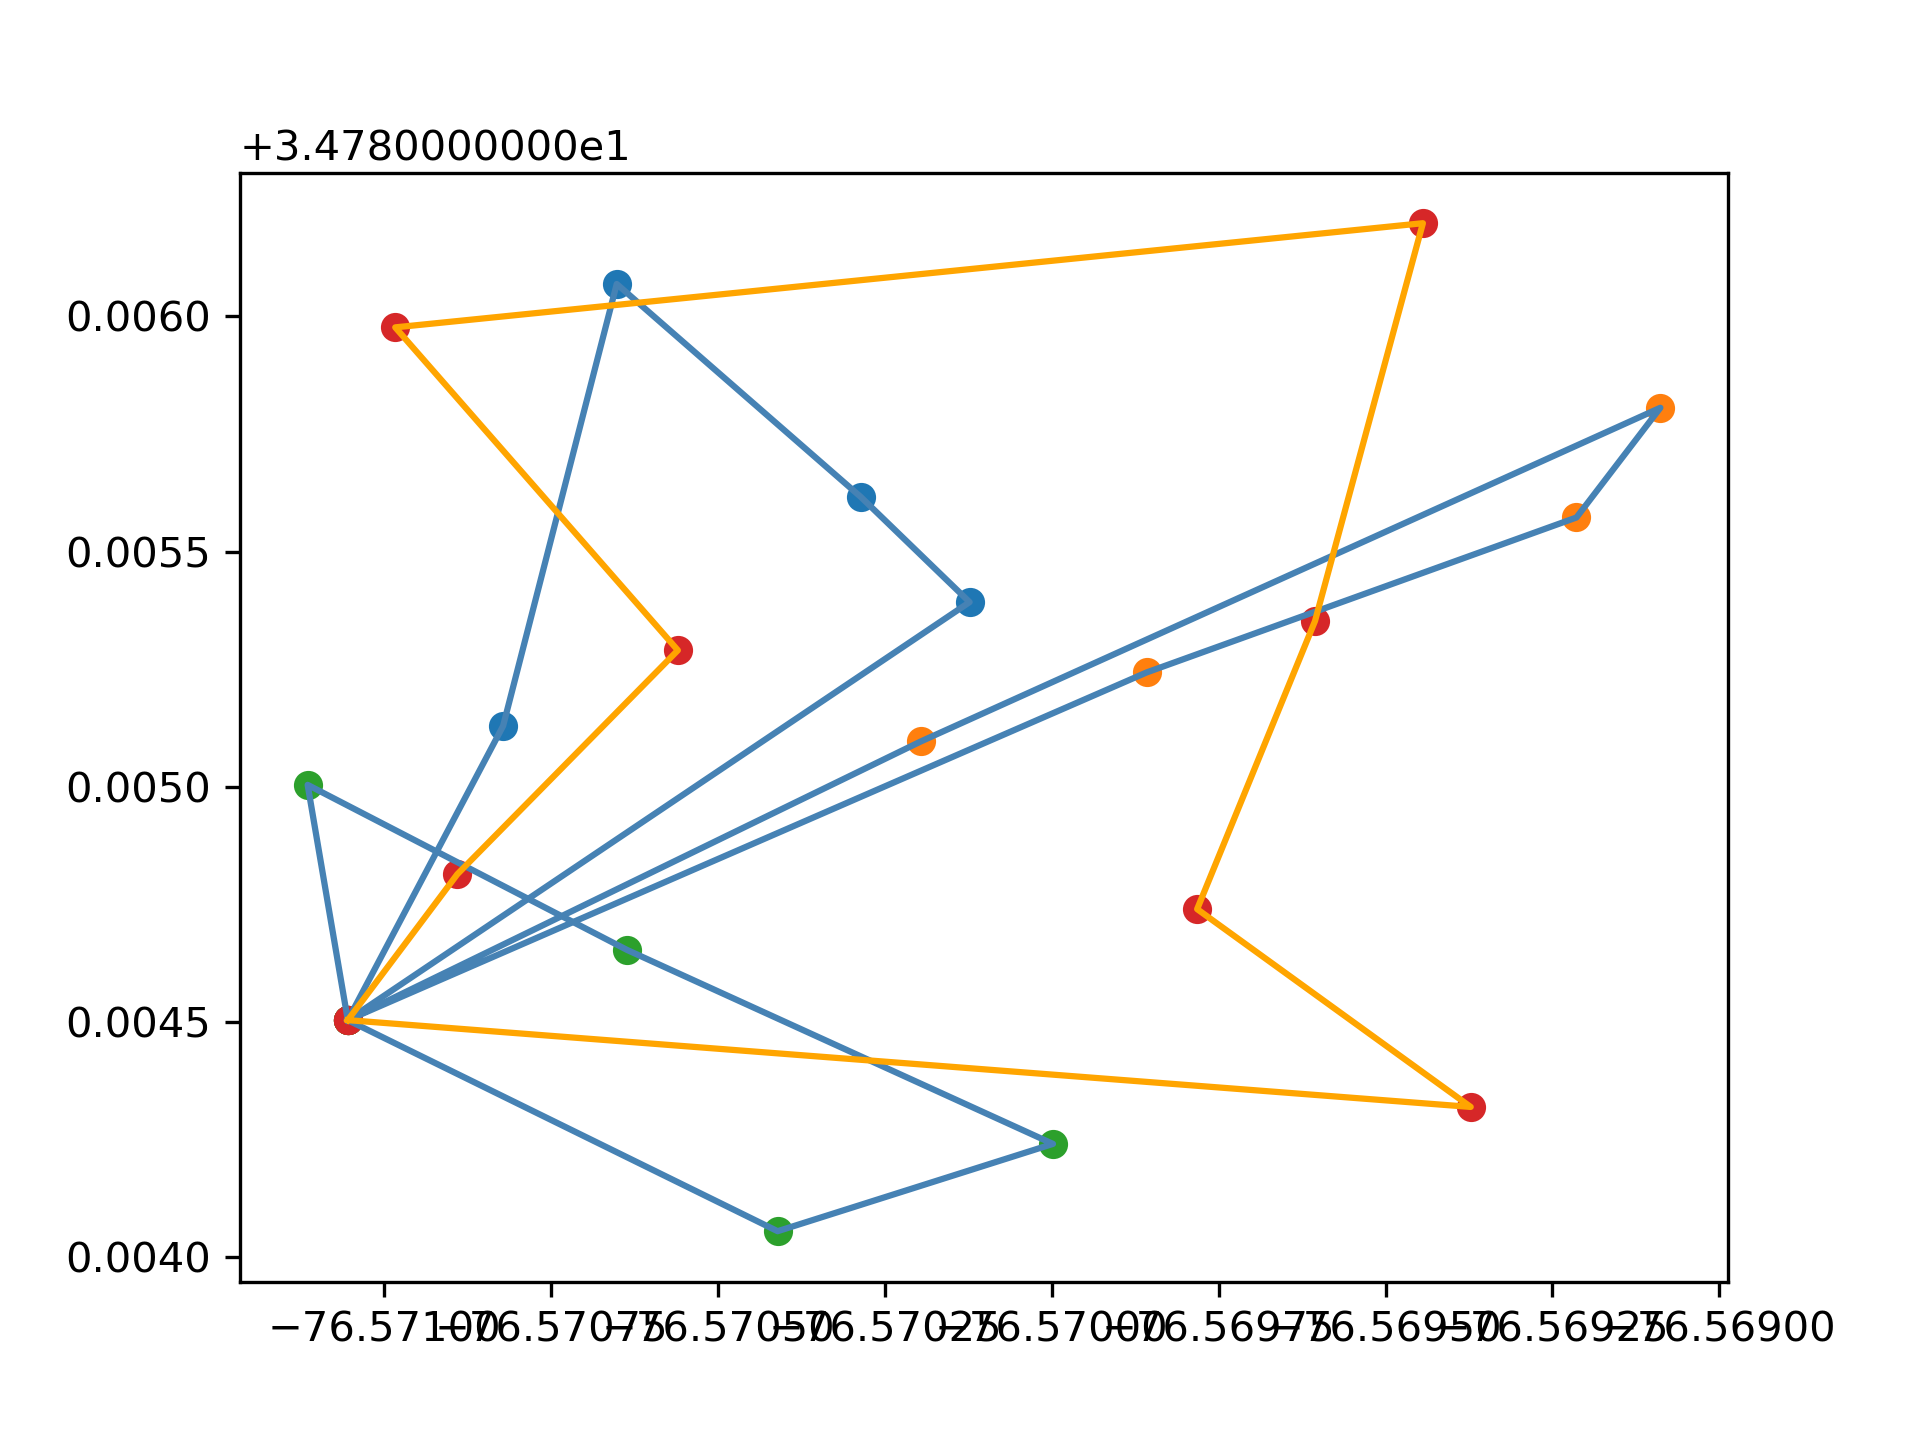
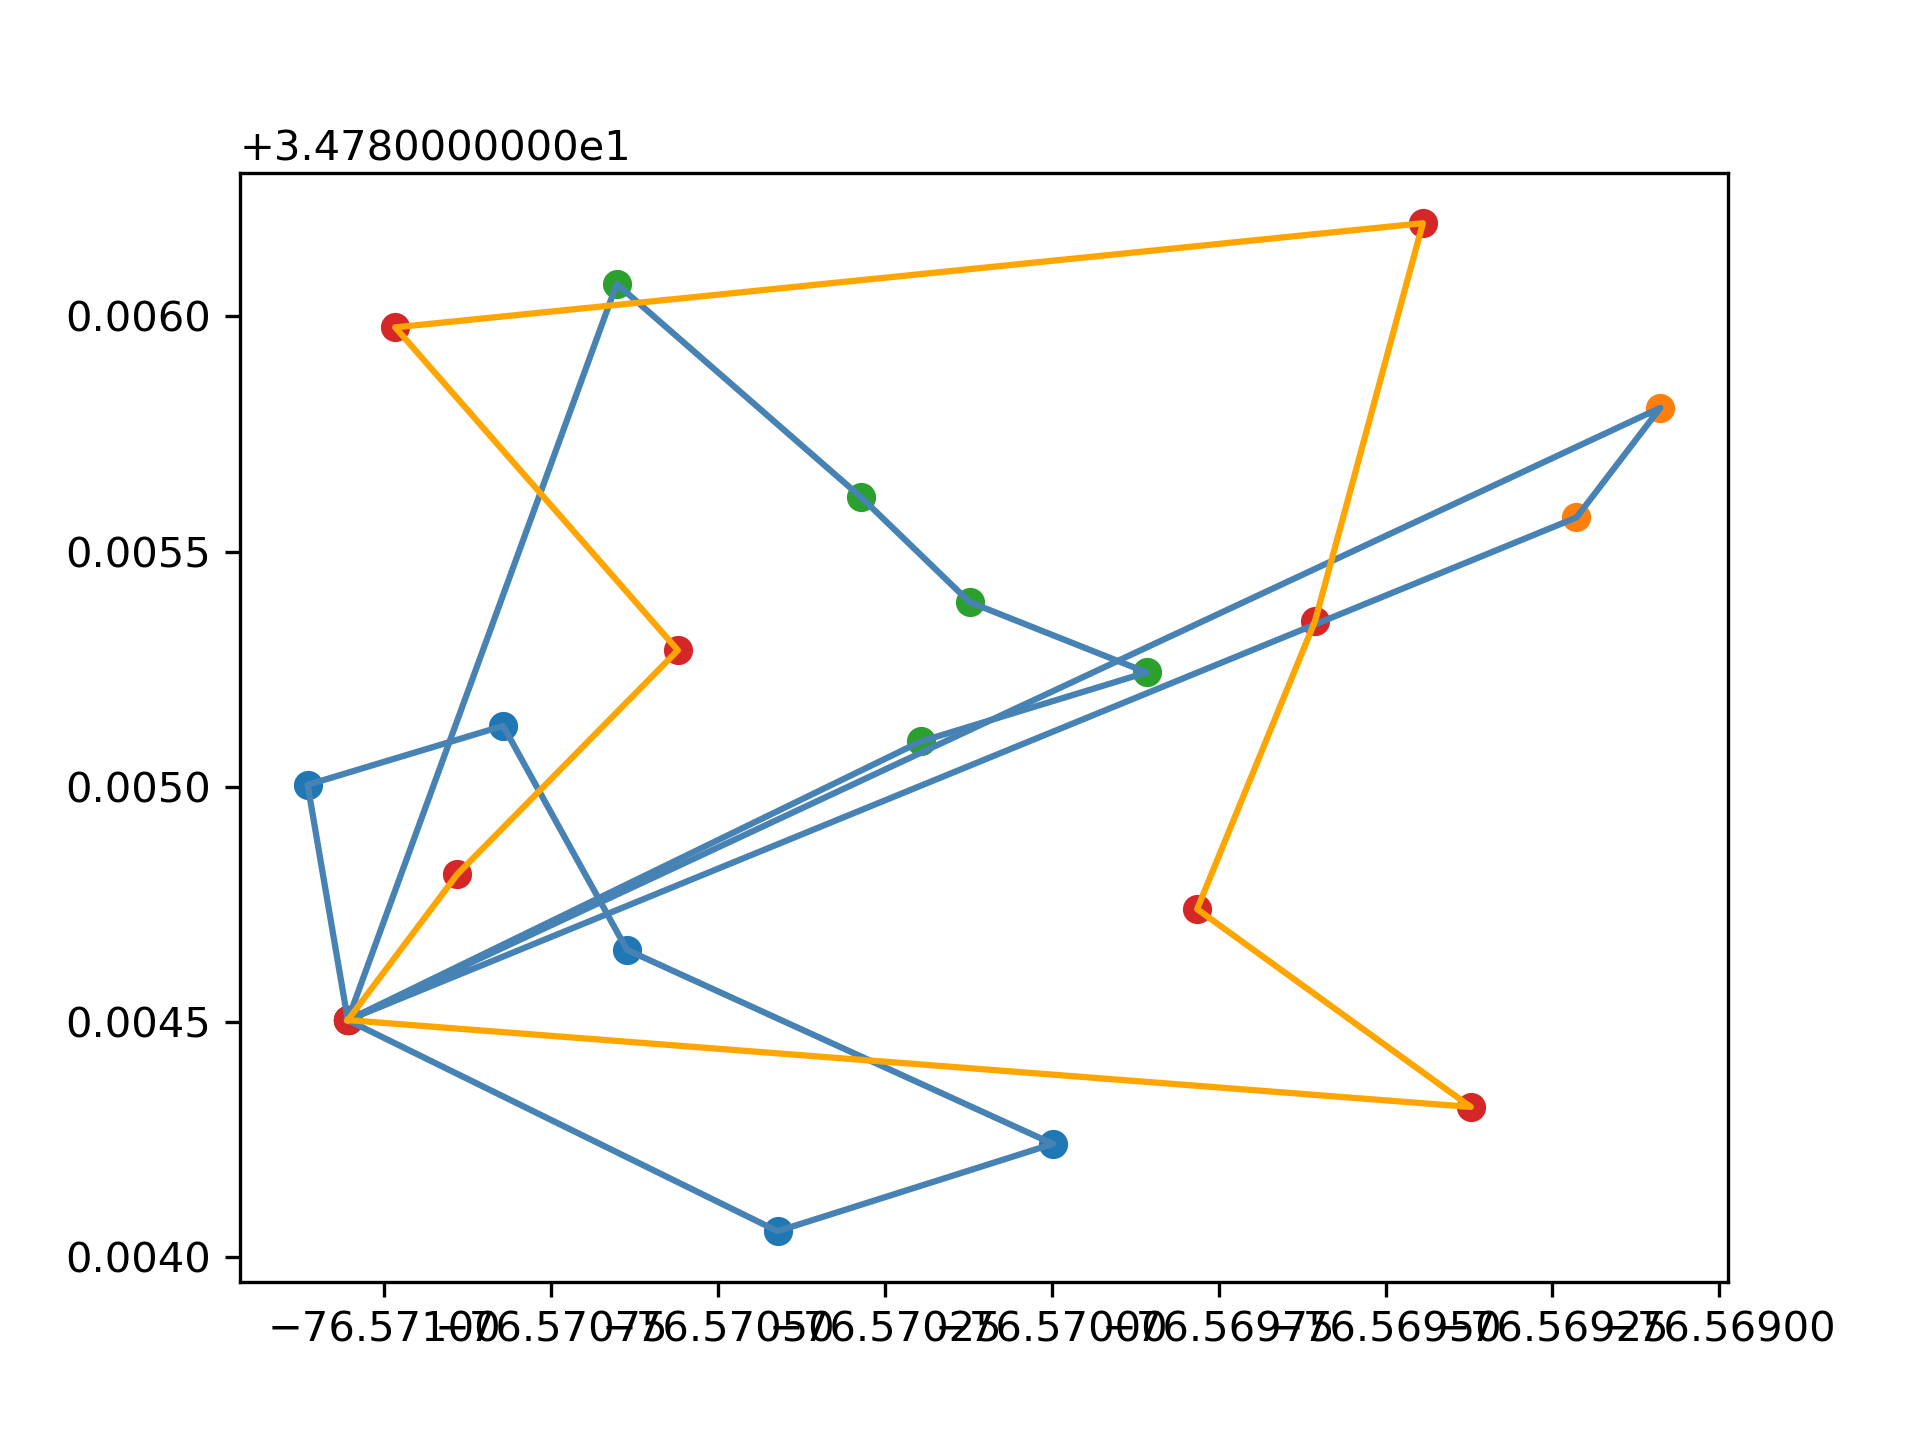
change vehicle capacity constraint

diff --git a/main.py b/main.py
@@ -28,7 +28,7 @@ def main():
     boat_dist = 3000  # 3000 meters
     drone_dist = 3000
     ndrones = 3
-    single_drone_cap = 5
+    single_drone_cap = 6
     seed = 66  # to create reproduceable result, can be randomized
     sim = samplingPointSim(bot_left, top_right, num_samples, longLatDistM, seed)
     samples = sim.samples.tolist()
@@ -36,7 +36,7 @@ def main():
     boat_points = sim.nearest2Centroids(nrows, ncols).tolist()
     boat_points = [tuple(p) for p in boat_points]
     drone_points = [tuple(p) for p in samples if p not in boat_points]
-    boat_caps = [len(boat_points)]
+    boat_caps = [len(boat_points) + 1]
     drone_caps = [single_drone_cap for _ in range(ndrones)]
     drone_dists = [drone_dist] * ndrones
     depot = boat_points[0]
